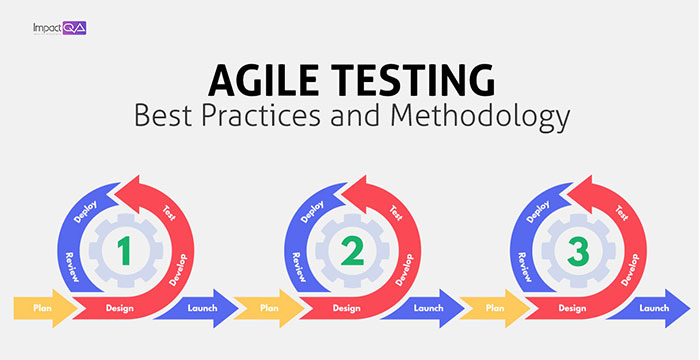
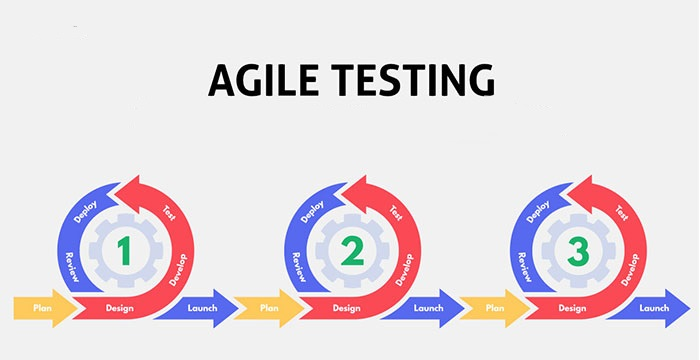
Faruuq 2nd Push V2

diff --git a/AgileTestingPractices.md b/AgileTestingPractices.md
@@ -5,7 +5,7 @@ In the last part of this handbook, we will be discussing Agile Testing and we’
 Through research we have the best practices for agile testing.
 
 <center>
-  <img src="New-Banner-Agile-1.jpg" alt="Agile Banner">
+  <img src="New-Banner-Agile.jpg" alt="Agile Banner">
 </center>
 
 ## Common Themes
